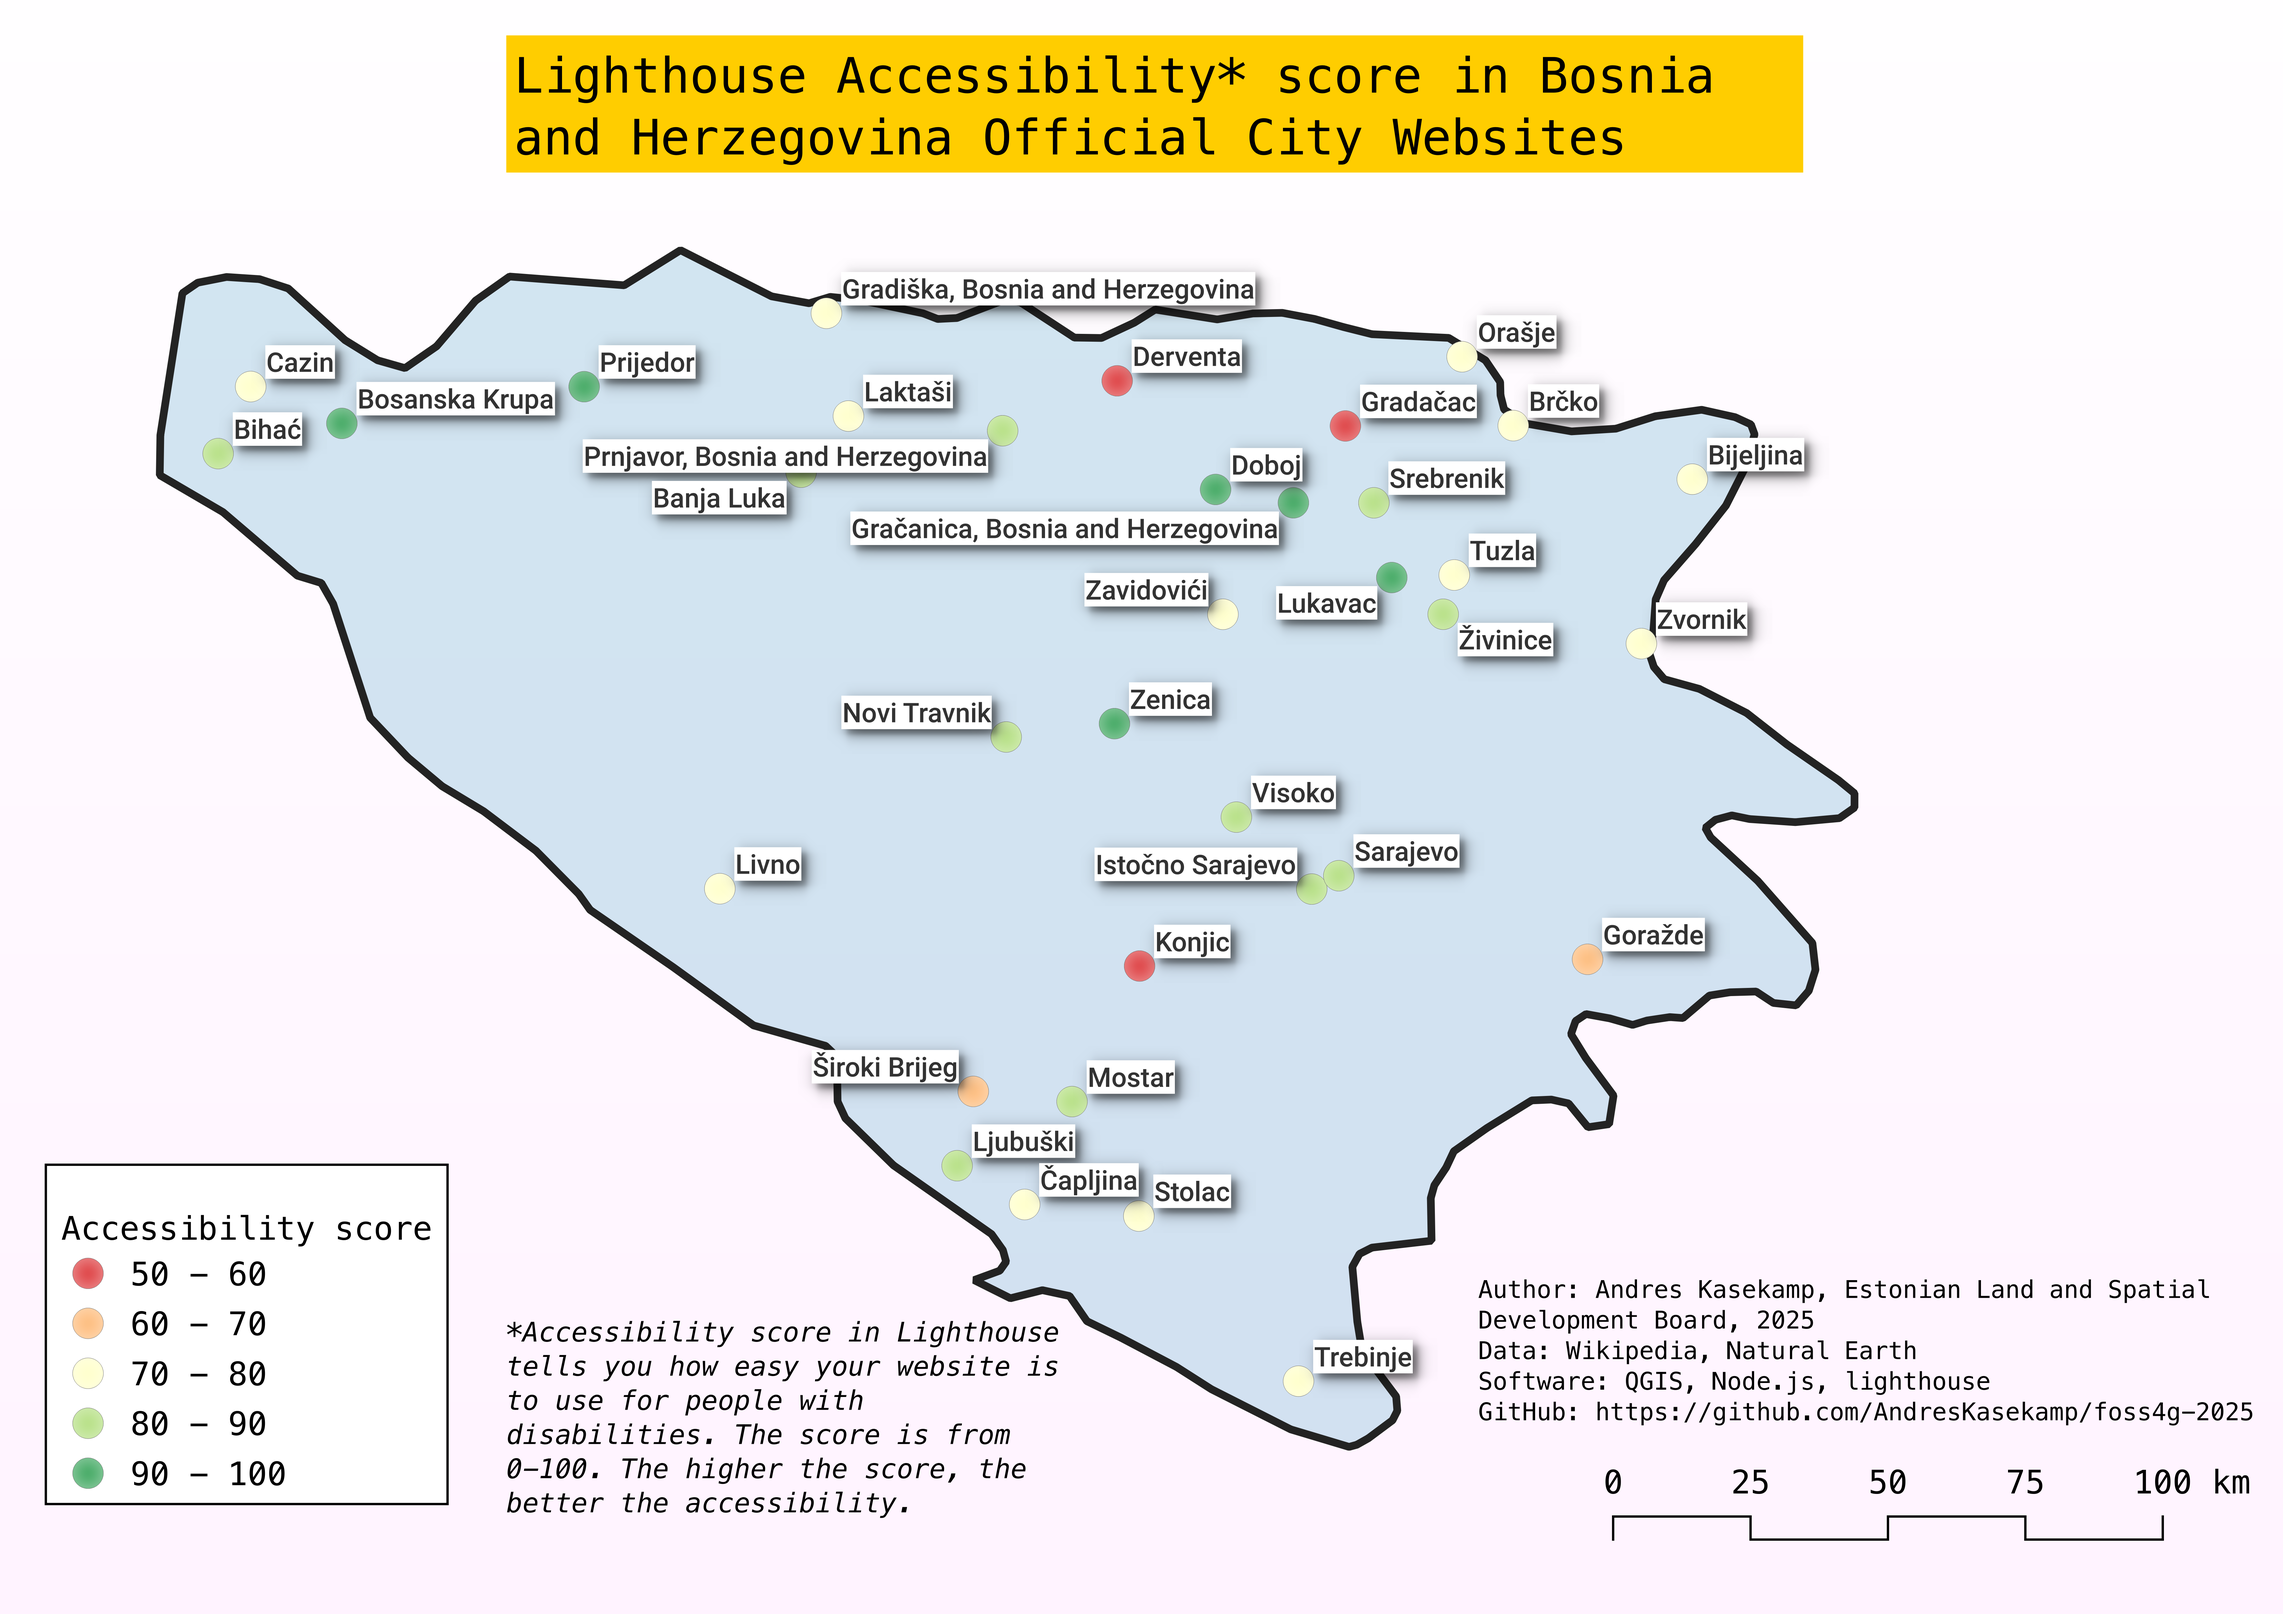
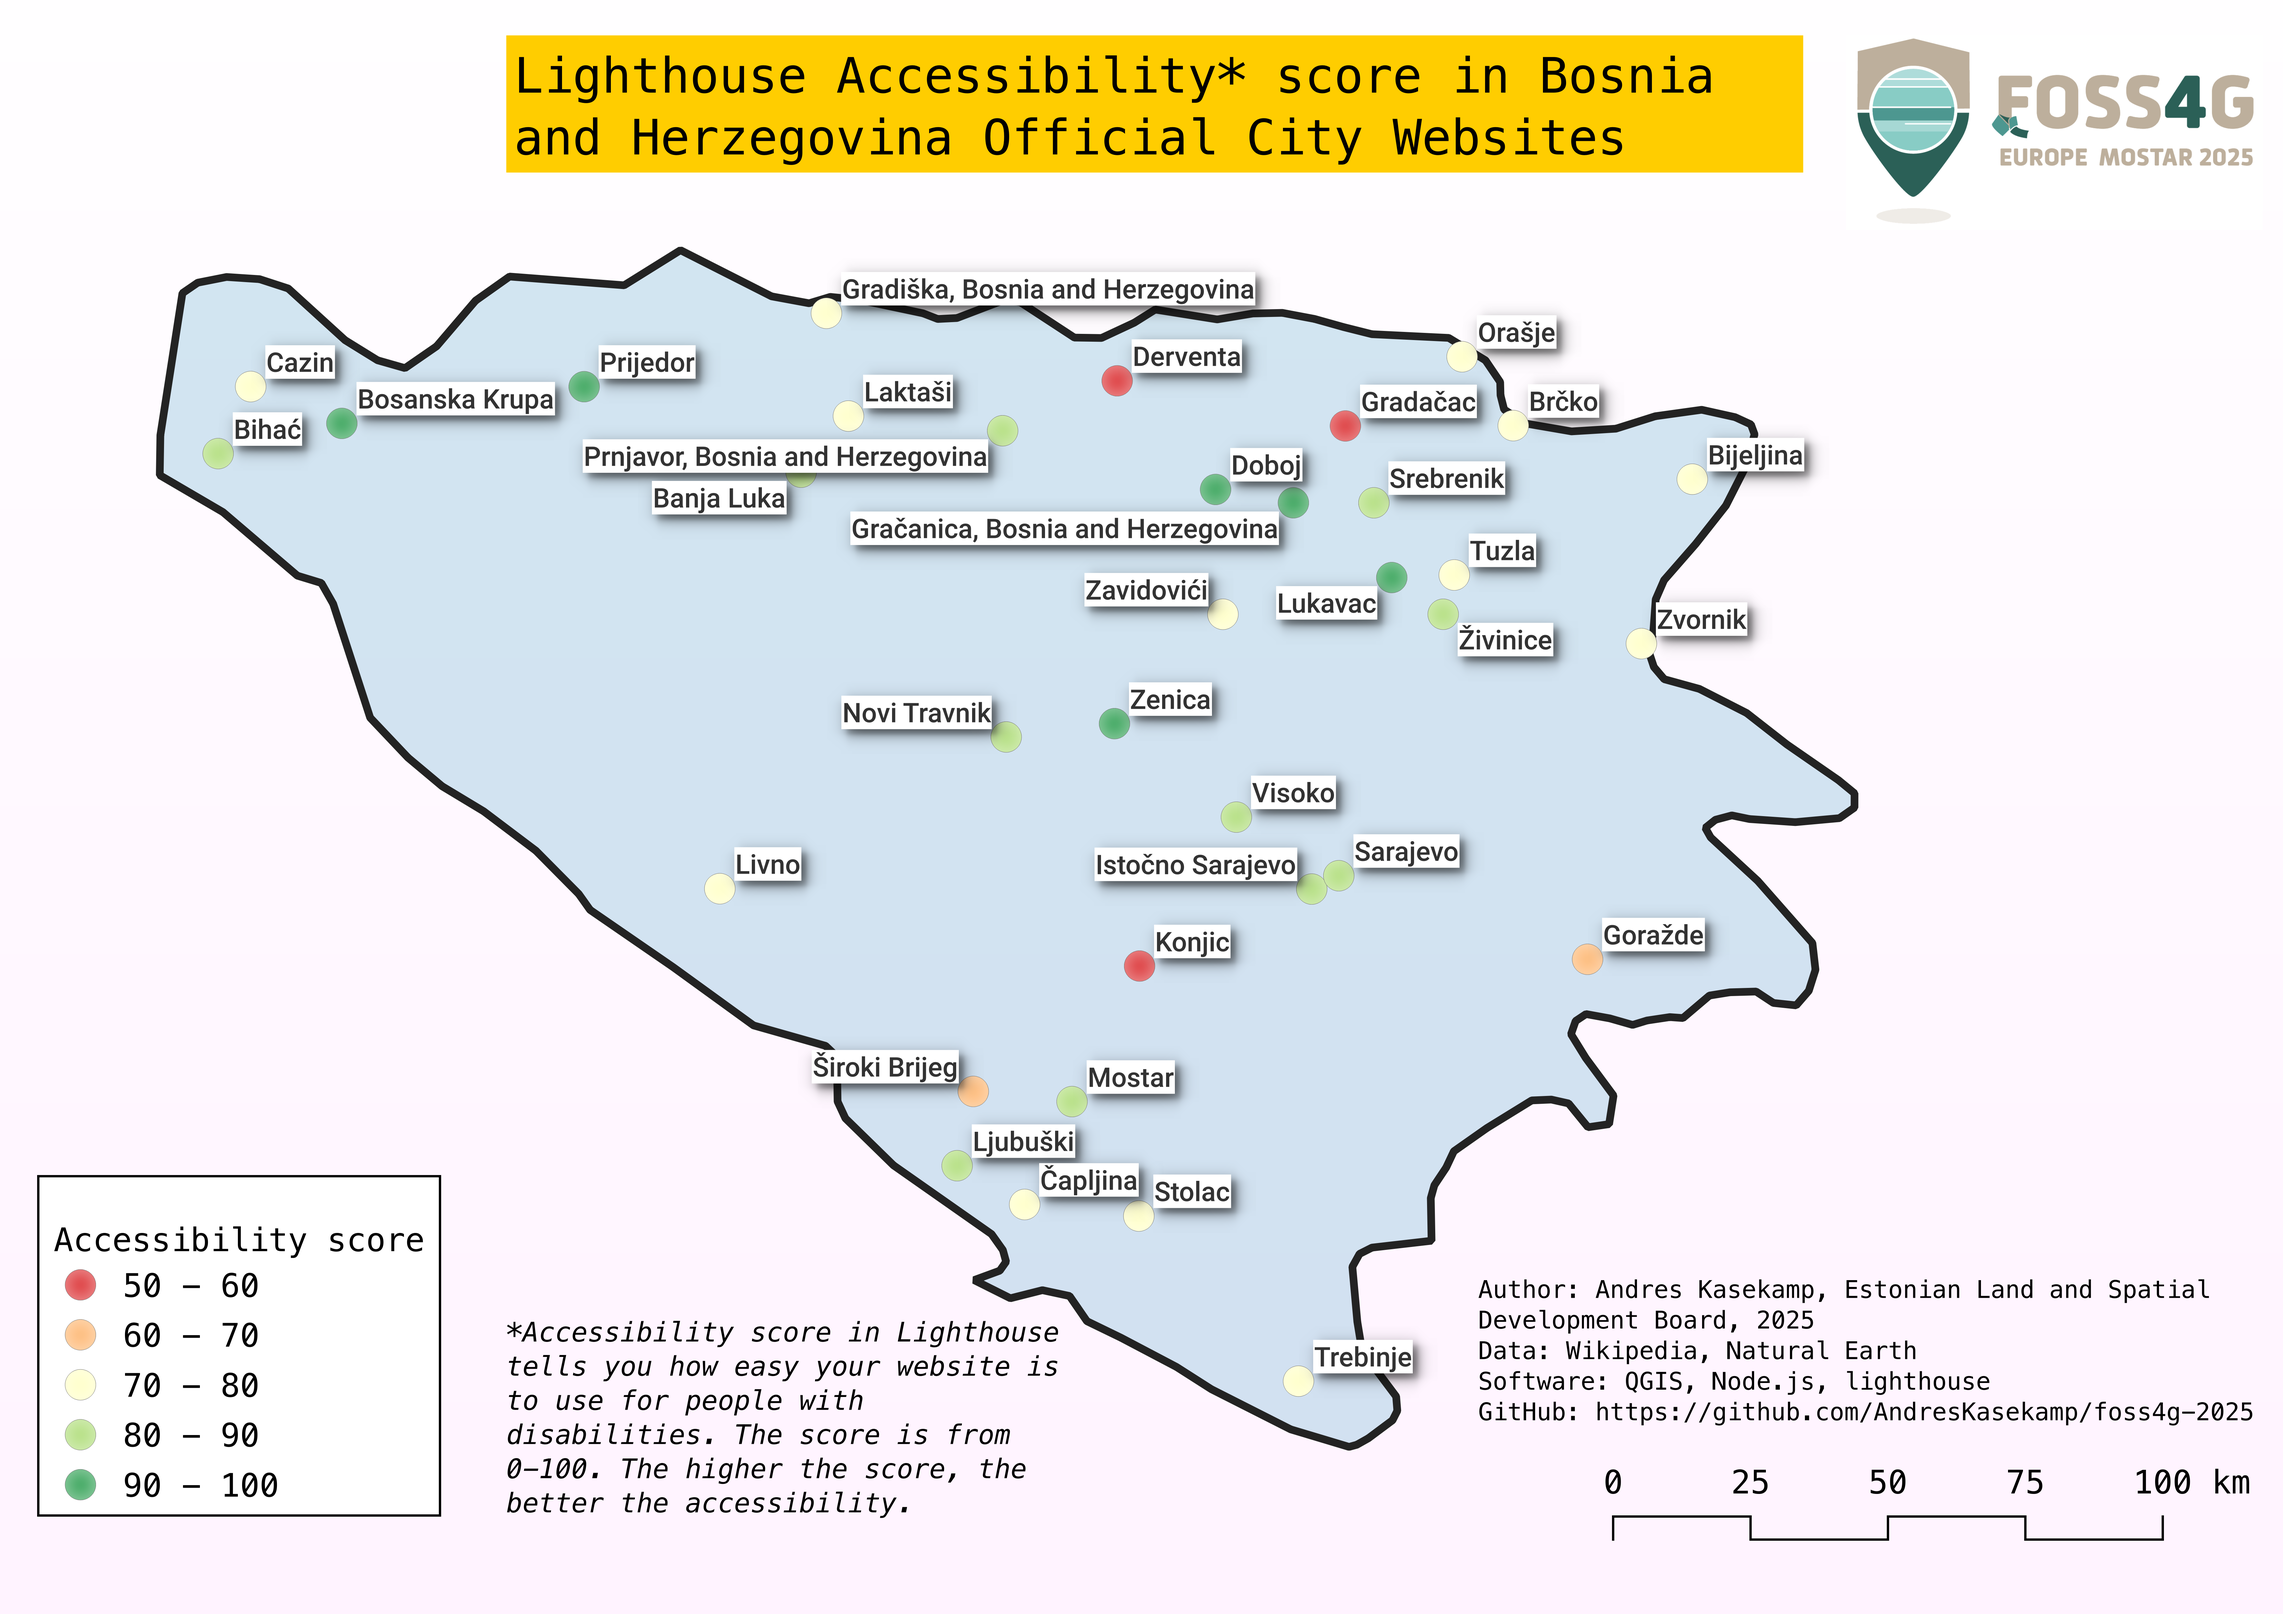
meta

Changed region(s): [[0.0, 0.7188, 0.1873, 0.9375], [0.8117, 0.0, 0.999, 0.125]]

diff --git a/README.md b/README.md
@@ -1,4 +1,4 @@
-# FOSS4G-2025
+# FOSS4G Europe 2025
 
 ![Wikidata Badge](https://img.shields.io/badge/Wikidata-069?logo=wikidata&logoColor=fff&style=for-the-badge)
 ![Wikipedia Badge](https://img.shields.io/badge/Wikipedia-000?logo=wikipedia&logoColor=fff&style=for-the-badge)
@@ -6,7 +6,7 @@
 ![Qgis Badge](https://img.shields.io/badge/Qgis-589632?logo=qgis&logoColor=fff&style=for-the-badge)
 ![Lighthouse Badge](https://img.shields.io/badge/Lighthouse-F44B21?logo=lighthouse&logoColor=fff&style=for-the-badge)
 
-Map Gallery Submission. The city website URL-s are from Wikipedia [List of cities in Bosnia and Herzegovina](https://en.wikipedia.org/wiki/List_of_cities_in_Bosnia_and_Herzegovina).
+Map Gallery Submission for [FOSS4G Europe 2025 Mostar](https://2025.europe.foss4g.org/). The city website URL-s are from Wikipedia [List of cities in Bosnia and Herzegovina](https://en.wikipedia.org/wiki/List_of_cities_in_Bosnia_and_Herzegovina).
 
 ## 🏃 Running
 
